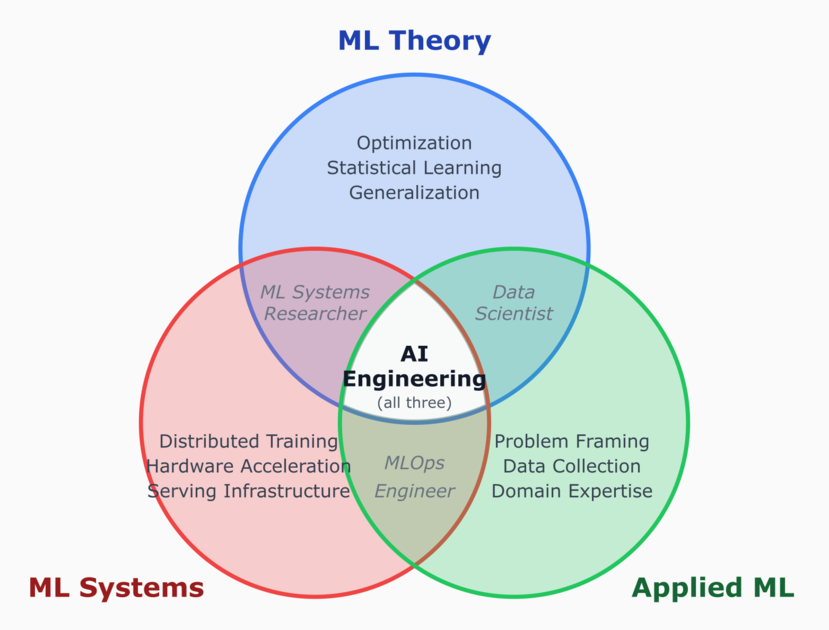
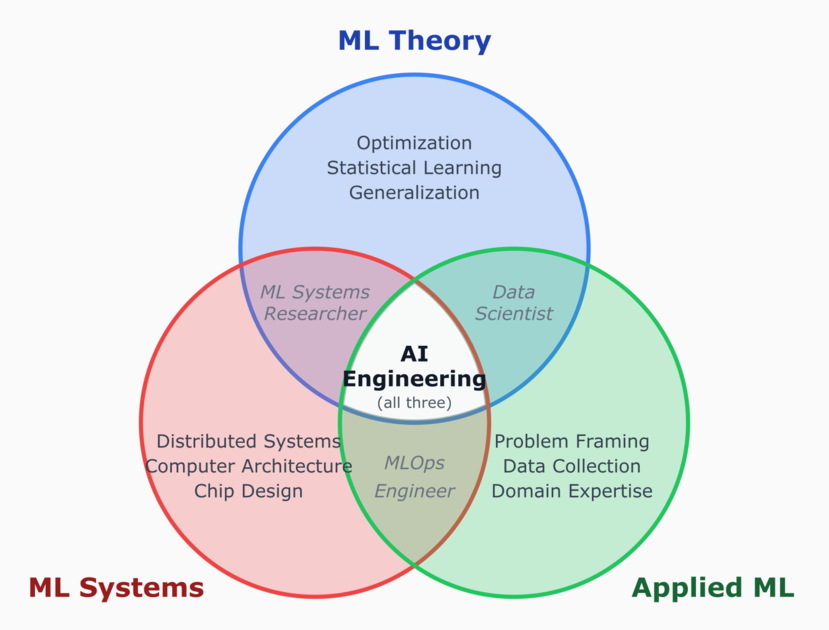
Update Venn diagram: ML Systems now covers full stack (Systems, Architecture, Chip Design)

Changed region(s): [[0.1508, 0.6937, 0.4222, 0.8143]]

diff --git a/public/content/blog/ai-engineering.md b/public/content/blog/ai-engineering.md
@@ -13,7 +13,9 @@ AI engineering has emerged as a computational discipline distinct from both mach
 
 We are building AI systems at a pace that outstrips our ability to build them well. The gap between what machine learning research produces and what production systems require has become a chasm, one that neither traditional software engineering nor data science is equipped to bridge. **It is time to recognize AI engineering as a distinct computational discipline.**
 
-This is not a proposal to create yet another specialization or to rebrand existing practices under a trendier name. It is an argument that a coherent body of knowledge, a distinct set of competencies, and a recognizable professional identity have already emerged in practice, and that formalizing this discipline would benefit practitioners, educators, and the systems we collectively build.
+Andrew Ng famously said that AI is the new electricity. But if that's true, someone has to engineer the generators and build the grid, not just plug in the appliances. Who designs the training infrastructure? Who builds serving systems that scale? Who optimizes models to run on a phone or a sensor? Who designs the accelerators those models run on? Who builds the monitoring that catches failures before users do? That work is AI engineering. And recognizing it as such isn't just rebranding.
+
+This is not a proposal to create yet another specialization. It is an argument that a coherent body of knowledge, a distinct set of competencies, and a recognizable professional identity have already emerged in practice, and that formalizing this discipline would benefit practitioners, educators, and the systems we collectively build.
 
 ## What AI Engineering Is, and Is Not
 
@@ -91,7 +93,7 @@ Deployment and operations cover the infrastructure for serving models, the monit
 
 ### Hardware-Aware Optimization
 
-Hardware-aware optimization has become increasingly critical as AI moves to edge devices and as the economics of cloud inference drive attention to efficiency. Understanding the relationship between model architecture and execution performance is no longer optional. The rise of TinyML and on-device inference has made this especially acute: models must be designed from the outset with target hardware in mind, rather than optimized as an afterthought. As the bottom row of Table 1 suggests, hardware constraints move from an implementation detail to a first-order design concern in AI engineering.
+Hardware-aware optimization has become increasingly critical as AI moves to edge devices and as the economics of cloud inference drive attention to efficiency. Understanding the relationship between model architecture and execution performance is no longer optional. The rise of TinyML and on-device inference has made this especially acute: models must be designed from the outset with target hardware in mind, rather than optimized as an afterthought. Increasingly, this means AI engineers must understand not just how to optimize for existing hardware, but how to co-design algorithms and silicon together. As the bottom row of Table 1 suggests, hardware constraints move from an implementation detail to a first-order design concern in AI engineering.
 
 ### Safety and Reliability
 
@@ -135,9 +137,7 @@ ACM or IEEE needs to establish technical communities focused specifically on AI 
 
 The community has done this before, for software engineering and computer engineering. We can do it again. The alternative, continuing to treat AI systems engineering as an afterthought to AI research, is increasingly untenable: without shared vocabulary, teams will keep repeating the same mistakes; without curricula, practitioners will continue learning through costly trial and error; without professional identity, organizations will struggle to hire, structure teams, and build institutional knowledge. The systems we are building are too important and too complex to be built without a discipline adequate to the task.
 
-These observations emerge from my personal experience building ML systems across scales, from datacenter-scale MLPerf benchmarks to microcontroller-scale TinyML deployments, and from efforts to codify this knowledge through open curricula that have reached learners worldwide ([edx.org/professional-certificate/harvardx-tiny-machine-learning](http://edx.org/professional-certificate/harvardx-tiny-machine-learning), [mlsysbook.ai](http://mlsysbook.ai), and [tinytorch.ai](http://tinytorch.ai)). 
-
-The patterns of failure and the gaps in practitioner training recur across domains and organizations. In 1968, the computing community recognized the software crisis and began to develop a discipline to address it. **It is time to do the same for AI.**
+The patterns of failure and the gaps in practitioner training recur across domains and organizations.<sidenote>These observations of mine emerge from building ML systems across scales—from datacenter-scale <a href="https://mlcommons.org/benchmarks/training/">MLPerf benchmarks</a> to microcontroller-scale <a href="https://www.edx.org/professional-certificate/harvardx-tiny-machine-learning">TinyML deployments</a>—and from efforts to codify this knowledge through open curricula: <a href="https://mlsysbook.ai">mlsysbook.ai</a> and <a href="https://tinytorch.ai">tinytorch.ai</a>.</sidenote> In 1968, the computing community recognized the software crisis and began to develop a discipline to address it. **It is time to do the same for AI.**
 
 ## References
 
